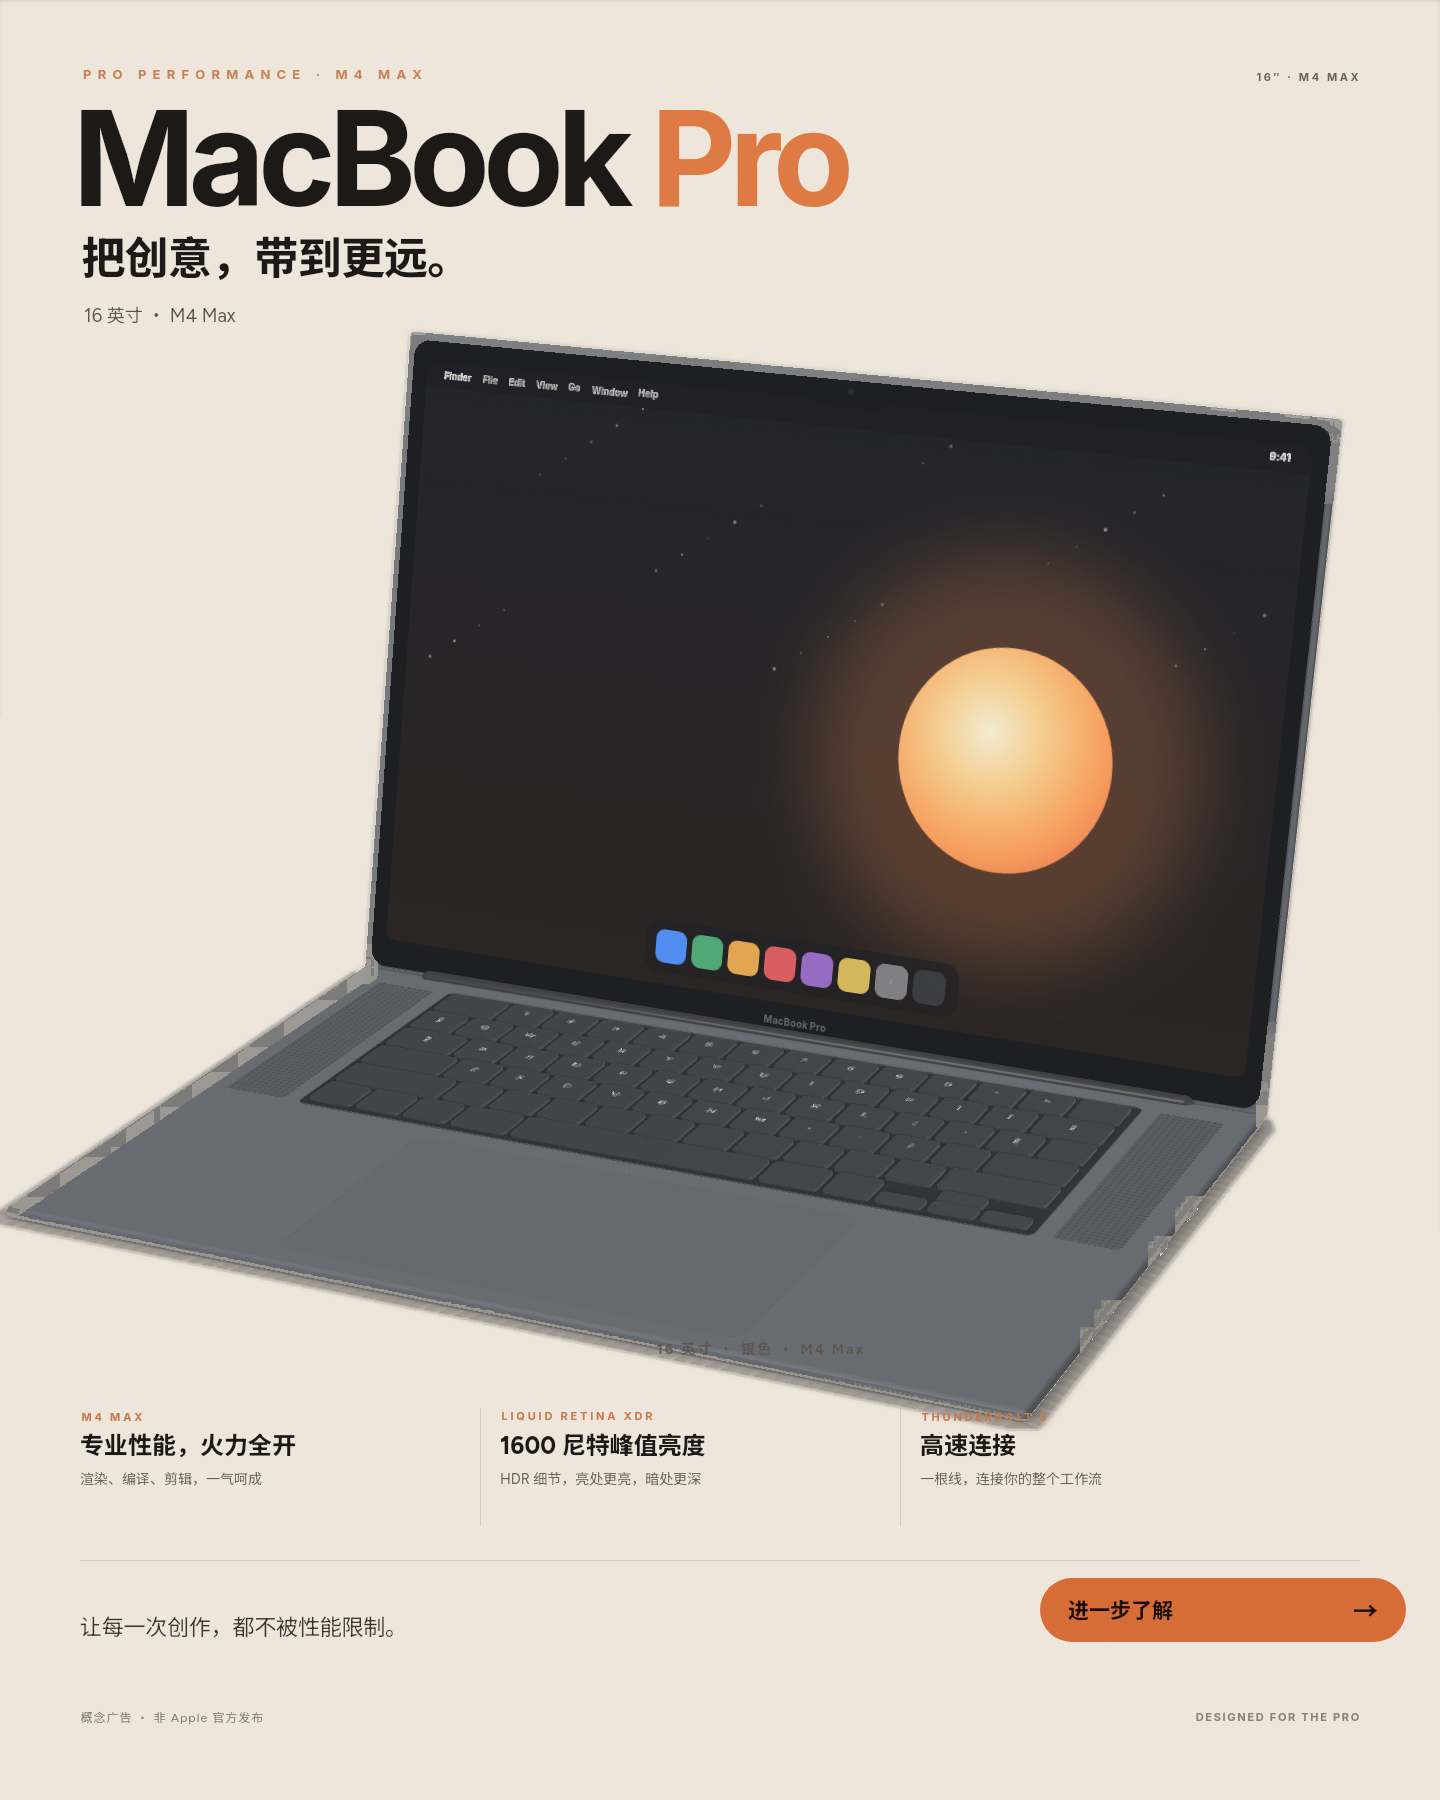
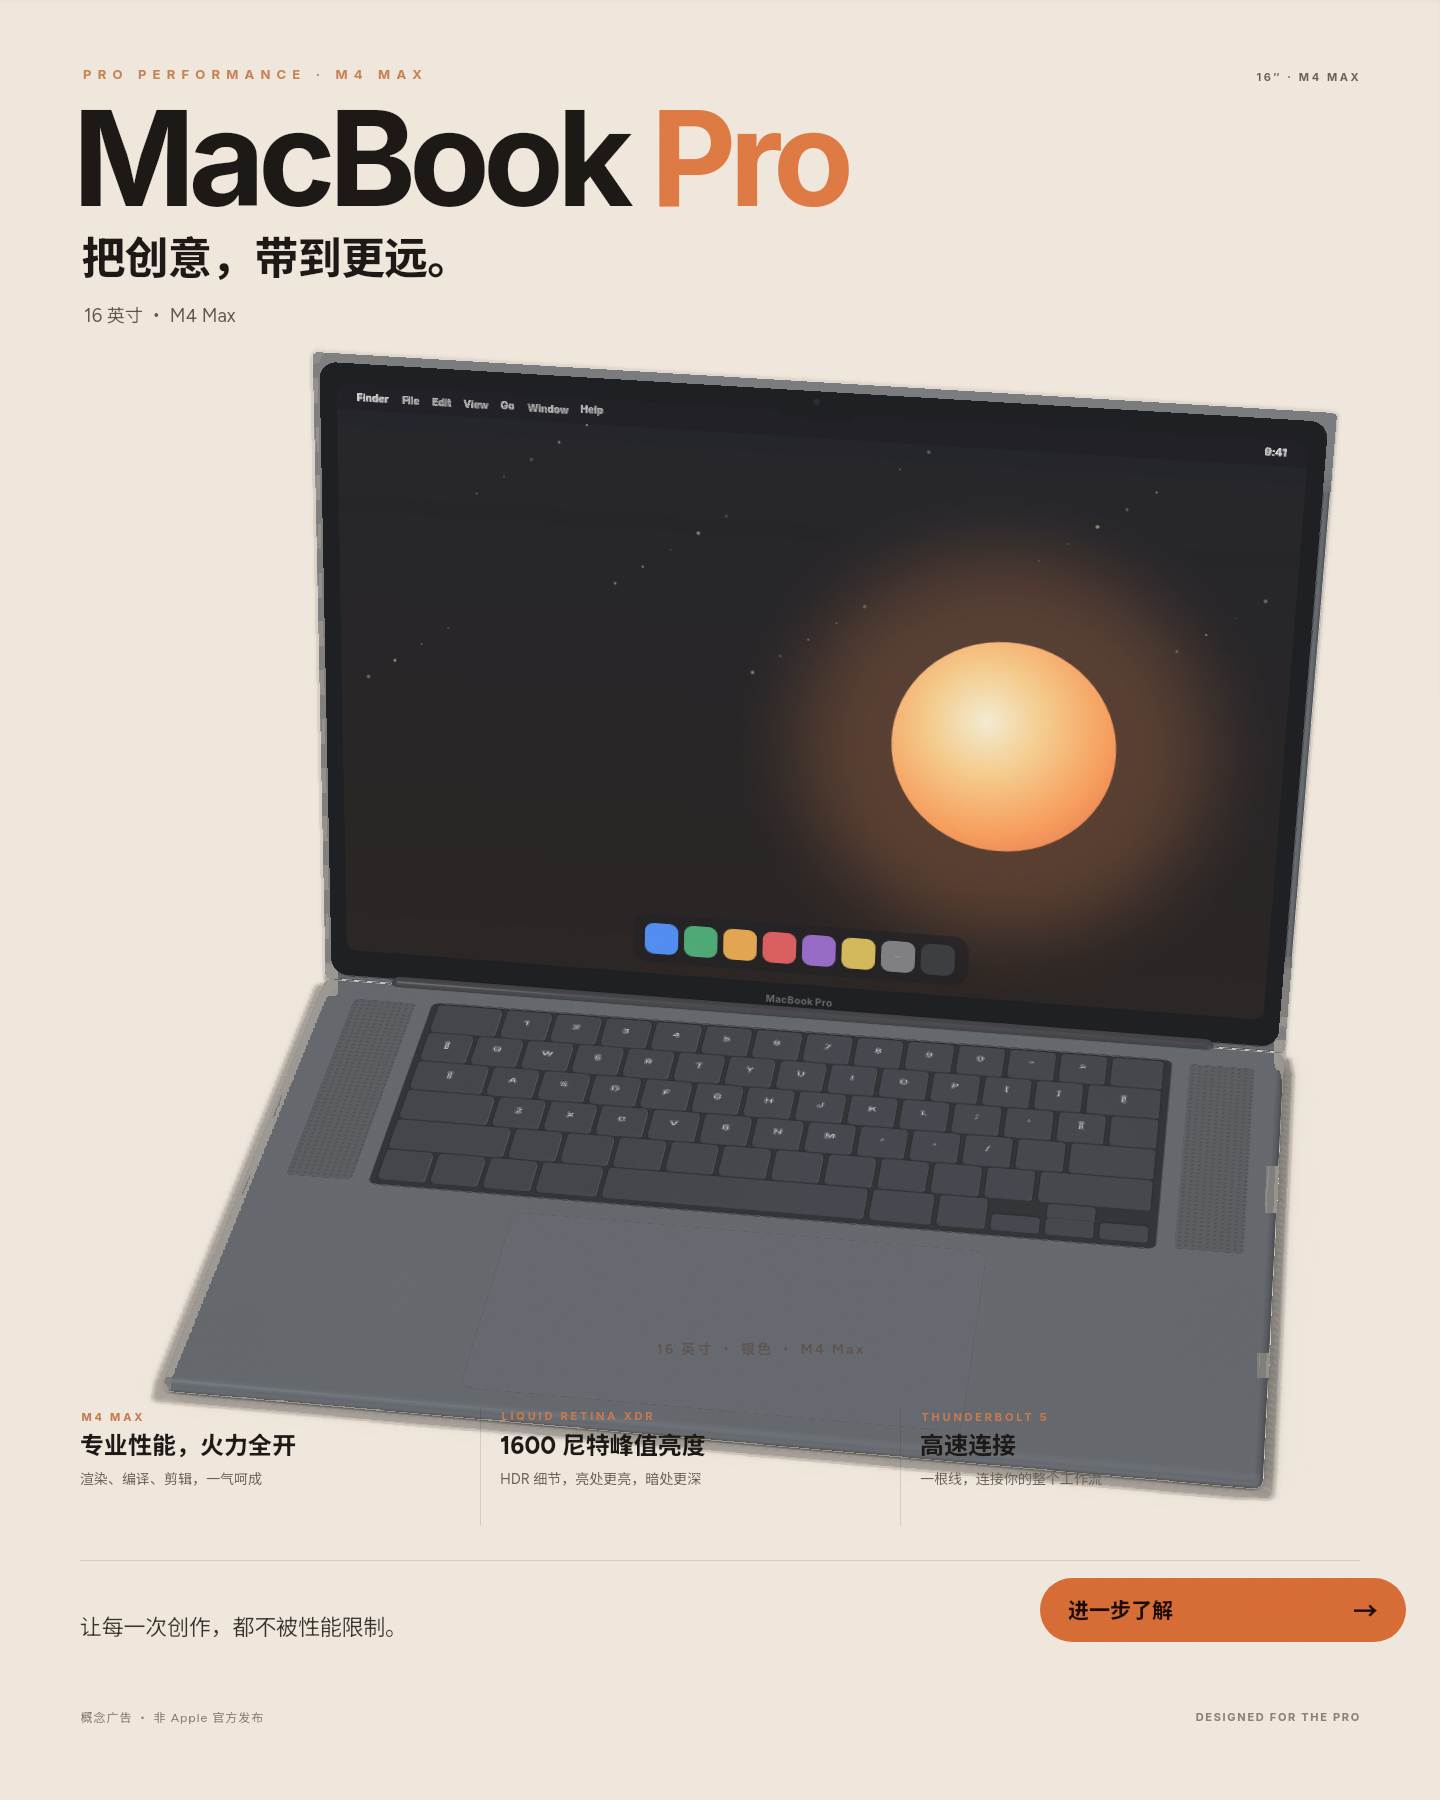
QUALITY-6 §9.2: seat still gold; top-down macbook foreshorten lip.
Gold plinth contact; orbit 8/32 hides the front chrome seam.

diff --git a/examples/macbook-pro.tsx b/examples/macbook-pro.tsx
@@ -12,13 +12,13 @@ const WELL = '#1a1c20'
 
 const W = 980
 const D = 670
-// Thin extrusion — a tall front face was reading as a chrome lip (§9.2).
-const T = 10
+// Mid extrusion; tip camera more top-down so the front seam is foreshortened (§9.2).
+const T = 16
 const TOP = T / 2
 
 const LID_H = 666
-const LID_T = 6
-const LID_TILT = 12
+const LID_T = 8
+const LID_TILT = 8
 
 const STAGE = { x: 310, groundY: 1044 }
 
@@ -209,12 +209,12 @@ function Lid() {
 export default (
   <layer width="1440" height="1800" background="#f6f3ee" color="#1c1916" min-font="10" noise="0.012">
     <rect x="0" y="0" width="1440" height="1800" fill="linear-gradient(180deg, #f7f4ef 0%, #efe8df 100%)" />
-    <layer width="1440" height="1800" camera="fov 26, orbit 24 20" light="world" grade="matte 0.92">
-      {/* Match pad to shell; kill key so no chrome lip (§9.2). */}
-      <light type="hemisphere" intensity="0.82" color="#fff8f0" ground-color="#d2ccc4" />
+    <layer width="1440" height="1800" camera="fov 24, orbit 8 32" light="world" grade="matte 0.95">
+      {/* Top-down foreshortens the front lip; soft ground hides jagged dashes (§9.2). */}
+      <light type="hemisphere" intensity="0.88" color="#fff8f0" ground-color="#d2ccc4" />
       <Lid />
       <Base />
-      <ground y={STAGE.groundY} rotateX="90" fill="#efe8df" shadow-blur="88" shadow-opacity="0.2" />
+      <ground y={STAGE.groundY} rotateX="90" fill="#efe8df" shadow-blur="110" shadow-opacity="0.16" />
     </layer>
     <layer x="80" y="66">
       <p style="font-family:Inter; font-size:13px; font-weight:700; letter-spacing:6.2px; color:#c88255">PRO PERFORMANCE · M4 MAX</p>

diff --git a/scripts/gallery-3d.ts b/scripts/gallery-3d.ts
@@ -353,7 +353,8 @@ function buildPlates(): { sheet: string; title: string; cols: number; cells: Pla
           )
           .replace(
             '<circle id="gold" cx="780" cy="150" r="40" depth="160" fill="#e0a33a" material="plastic 0.22" />',
-            '<rect id="gold" x="744" y="120" width="72" height="66" depth="56" rx="14" fill="#e0a33a" material="plastic 0.4" />',
+            // Seat on the plinth — prior y=120 left a halo gap under dual-blind (§9.2).
+            '<rect id="gold" x="744" y="96" width="72" height="90" depth="48" rx="16" fill="#e0a33a" material="plastic 0.45" />',
           ),
         0,
         52,
